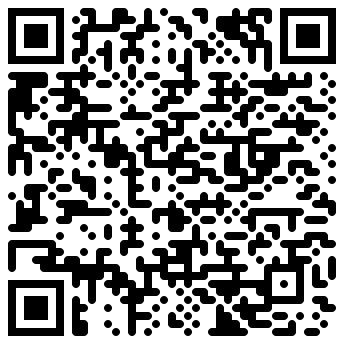
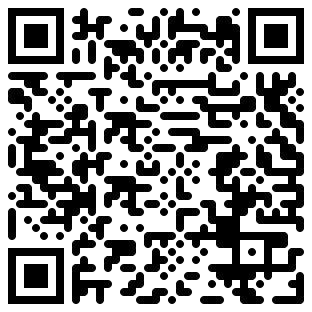
update

diff --git a/backend/main/api.py b/backend/main/api.py
@@ -12,6 +12,7 @@ from main.tools import msg_gen
 from main.tools import debug_info
 from main.models import db_model
 from main.models import today_manage
+from main.tools import hasher
 
 class staff_manage(Resource):
     #define argument parser
@@ -38,9 +39,10 @@ class staff_manage(Resource):
     def post(self):
         args=self.parser.parse_args()
         print(args)
+        next_id=str(db_model.next_id())
         data={
-            '_id':str(db_model.next_id()),
-            'hash_id':'',
+            '_id':next_id,
+            'hash_id':hasher(next_id),
             'name':args['name'],
             'cardid':args['cardid'],
             'jointime':args['jointime'],
@@ -52,7 +54,12 @@ class staff_manage(Resource):
 
         print(data)
         db_model.collection.insert_one(data)
+        
+        #gen qrcode
+        
+        
         send_notification(ic(msg_gen(data,'加入成功')),mode='test')
+        
         
         return {'data':data,'msg':'data inserted!'},200
     

diff --git a/backend/qrcode_gen.py b/backend/qrcode_gen.py
@@ -7,7 +7,7 @@ qr = qrcode.QRCode(
     box_size=8,
     border=1
 )
-qr.add_data('https://friedclockin.azurewebsites.net/preview/a591a6d40bf420404a011733cfb7b190d62c65bf0bcda32b57b277d9ad9f146e')   # 要轉換成 QRCode 的文字
+qr.add_data('https://friedclockin.azurewebsites.net/preview/c4ca4238a0b923820dcc509a6f75849b')   # 要轉換成 QRCode 的文字
 qr.make(fit=True)          # 根據參數製作為 QRCode 物件
 
 img = qr.make_image(image_factory=StyledPilImage, module_drawer=RoundedModuleDrawer())      # 產生 QRCode 圖片
